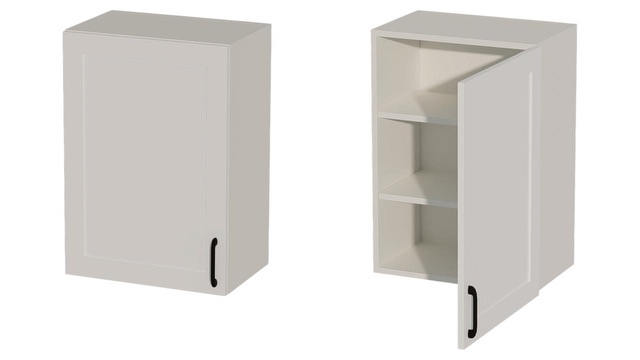
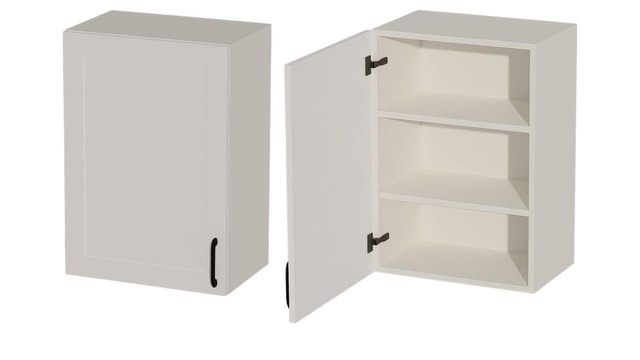
product img refactoring

Changed region(s): [[0.4375, 0.0611, 0.8438, 0.9778]]

diff --git a/client/src/helpers/helpers.ts b/client/src/helpers/helpers.ts
@@ -122,10 +122,12 @@ export const getImgOrNull = (folder: string, img: MaybeUndefined<string>): Maybe
     }
 }
 
-export const getProductImg = (folder: string, img: string): string => {
-    for (const s of ['', ' L', ' 2L', ' 2', ' 4'] as const) {
+export const getProductImg = (folder: string, name:string, hinge_postfix:string = ''): string => {
+    for (const s of [hinge_postfix, '', 'L', '2L', '4'] as const) {
         try {
-            const postfix = img.replace('.jpg', `${s}.jpg`).replace('/', ' ');
+            // const postfix = img.replace('.jpg', `${s}.jpg`).replace('/', ' ');
+            const postfix = s ? `${name} ${s}.jpg` : `${name}.jpg`;
+            console.log(postfix)
             return require(`./../assets/img/products/${folder}/${postfix}`);
         } catch (error) {
             continue;
@@ -134,30 +136,24 @@ export const getProductImg = (folder: string, img: string): string => {
     return noImg;
 }
 
-const getProductImgSrc = (name: string, hinge_type: MaybeUndefined<hingeTypes>, product_subcategory: productCategory): string => {
-    let n = name.replace(' Series', '');
+const getProductImgSrc = (name: string, hinge_type: MaybeUndefined<hingeTypes>): [string, string] => {
+    const n = name.replace(' Series', '');
     switch (hinge_type) {
         case "Left":
         case "Single left door":
-            n = `${n} L`;
-            break
+            return [n, 'L']
         case "Right":
         case "Single right door":
-            n = `${n} R`;
-            break
+            return [n, 'R']
         case "Two left doors":
-            n = `${n} 2L`;
-            break
+            return [n, '2L']
         case "Two right doors":
-            n = `${n} 2R`;
-            break
+            return [n, '2R']
         case "Four doors":
-            n = `${n} 4`;
-            break
+            return [n, '4']
         default:
-            break;
+            return [n, '']
     }
-    return `${n}.jpg`;
 }
 
 export const getCategoryImg = (room: RoomFront, currentCat: CatItem, hover?: MaybeNull<CustomPartsImgListItem>): string => {
@@ -296,11 +292,12 @@ const getRoomCategoryByProductCategory = (prod_cat: productCategory): MaybeEmpty
 export const getProductImagePath = (room: RoomNewType, product: ProductOrCustomType, hinge_type?: MaybeUndefined<hingeTypes>,has_glass_door?:boolean): string => {
     const {door_type, category} = room;
     if (isCustomPart(product)) {
-        return getProductImg(`Custom Parts`, `${product.name}.jpg`);
+        // extra RO/Drawer
+        return getProductImg(`Custom Parts`, product.name.replace('/', ' '));
     } else {
         const {category: product_subcategory, name, extra_categories} = product;
 
-        const img_src = getProductImgSrc(name, hinge_type, product_subcategory);
+        const img_src = getProductImgSrc(name, hinge_type);
         let category_folder = extra_categories ? getRoomCategoryByProductCategory(product_subcategory) : category;
         let material_folder = '';
         switch (category) {
@@ -319,7 +316,7 @@ export const getProductImagePath = (room: RoomNewType, product: ProductOrCustomT
             case "Leather Closet":
             case "RTA Closet":
             case "Cabinet System Closet": {
-                return getProductImg(category_folder, img_src);
+                return getProductImg(category_folder, img_src[0], img_src[1]);
             }
         }
         switch (door_type as MaybeEmpty<DoorTypesType>) {
@@ -344,10 +341,10 @@ export const getProductImagePath = (room: RoomNewType, product: ProductOrCustomT
 
         // for one special category so far
         if (has_glass_door) {
-            if (product_subcategory === 'Standard Gola Wall Cabinets') extra_folder = '/glass';
+            if (['Standard Gola Wall Cabinets', 'Standard Wall Cabinets'].includes(product_subcategory)) extra_folder = '/glass';
         }
 
-        return getProductImg(`${category_folder}/${material_folder}/${product_subcategory}${extra_folder}`, img_src);
+        return getProductImg(`${category_folder}/${material_folder}/${product_subcategory}${extra_folder}`, img_src[0], img_src[1]);
     }
 }
 
@@ -359,10 +356,10 @@ export const getCustomPartImagePath = (product: CustomPartType, values: CustomPa
         case "drawer-inserts": {
             if (!drawer_accessories?.inserts) break;
             const {insert_type, box_type, color} = drawer_accessories.inserts
-            if (!box_type || !color) return getProductImg(`Custom Parts`, `${product.name}.jpg`);
+            if (!box_type || !color) return getProductImg(`Custom Parts`, product.name);
             switch (box_type) {
                 case "Inserts": {
-                    if (!insert_type) return getProductImg(`Custom Parts`, `${product.name}.jpg`);
+                    if (!insert_type) return getProductImg(`Custom Parts`, product.name);
                     return getImg('drawer_inserts', `Type ${insert_type} ${color}.jpg`)
                 }
                 case "Pegs":
@@ -377,7 +374,7 @@ export const getCustomPartImagePath = (product: CustomPartType, values: CustomPa
             return getImg('glass_door_profile', `${glass_door[0]}.jpg`);
         }
     }
-    return getProductImg(`Custom Parts`, `${product.name}.jpg`);
+    return getProductImg(`Custom Parts`, product.name);
 }
 
 export function getSelectValfromVal(val: string | undefined, options: optionType[]): MaybeNull<optionType> {

diff --git a/client/src/Components/Product/ProductOptionsBlock.tsx b/client/src/Components/Product/ProductOptionsBlock.tsx
@@ -22,13 +22,16 @@ type OptionsBlockType = {
 const enableGlassDoorOption = (id: number, isProductStandard: boolean, width: number, height: number): boolean => {
     if (!isProductStandard) return true;
     switch (id) {
-        case 101: {
+        case 101:
+        case 115: {
             const standardHeight: boolean = [30, 36, 42].includes(height);
             if (!standardHeight) return false;
             return [12, 15, 18, 21, 24, 30, 36, 42].includes(width);
         }
         case 102:
-        case 103: {
+        case 103:
+        case 116:
+        case 117: {
             const standardHeight: boolean = [30, 36, 42].includes(height);
             if (!standardHeight) return false;
             return [30, 36, 42].includes(width);
@@ -46,16 +49,11 @@ const enableGlassDoorOption = (id: number, isProductStandard: boolean, width: nu
             if (!standardHeight) return false;
             return [12, 15, 18, 24, 30, 36].includes(width);
         }
-        case 111: {
+        case 111:
+        case 118: {
             const standardHeight: boolean = [30, 36, 42].includes(height);
             if (!standardHeight) return false;
             return [27, 30, 33, 36].includes(width);
-        }
-        case 115:
-        case 116:
-        case 117:
-        case 118: {
-            return true
         }
     }
     return false
